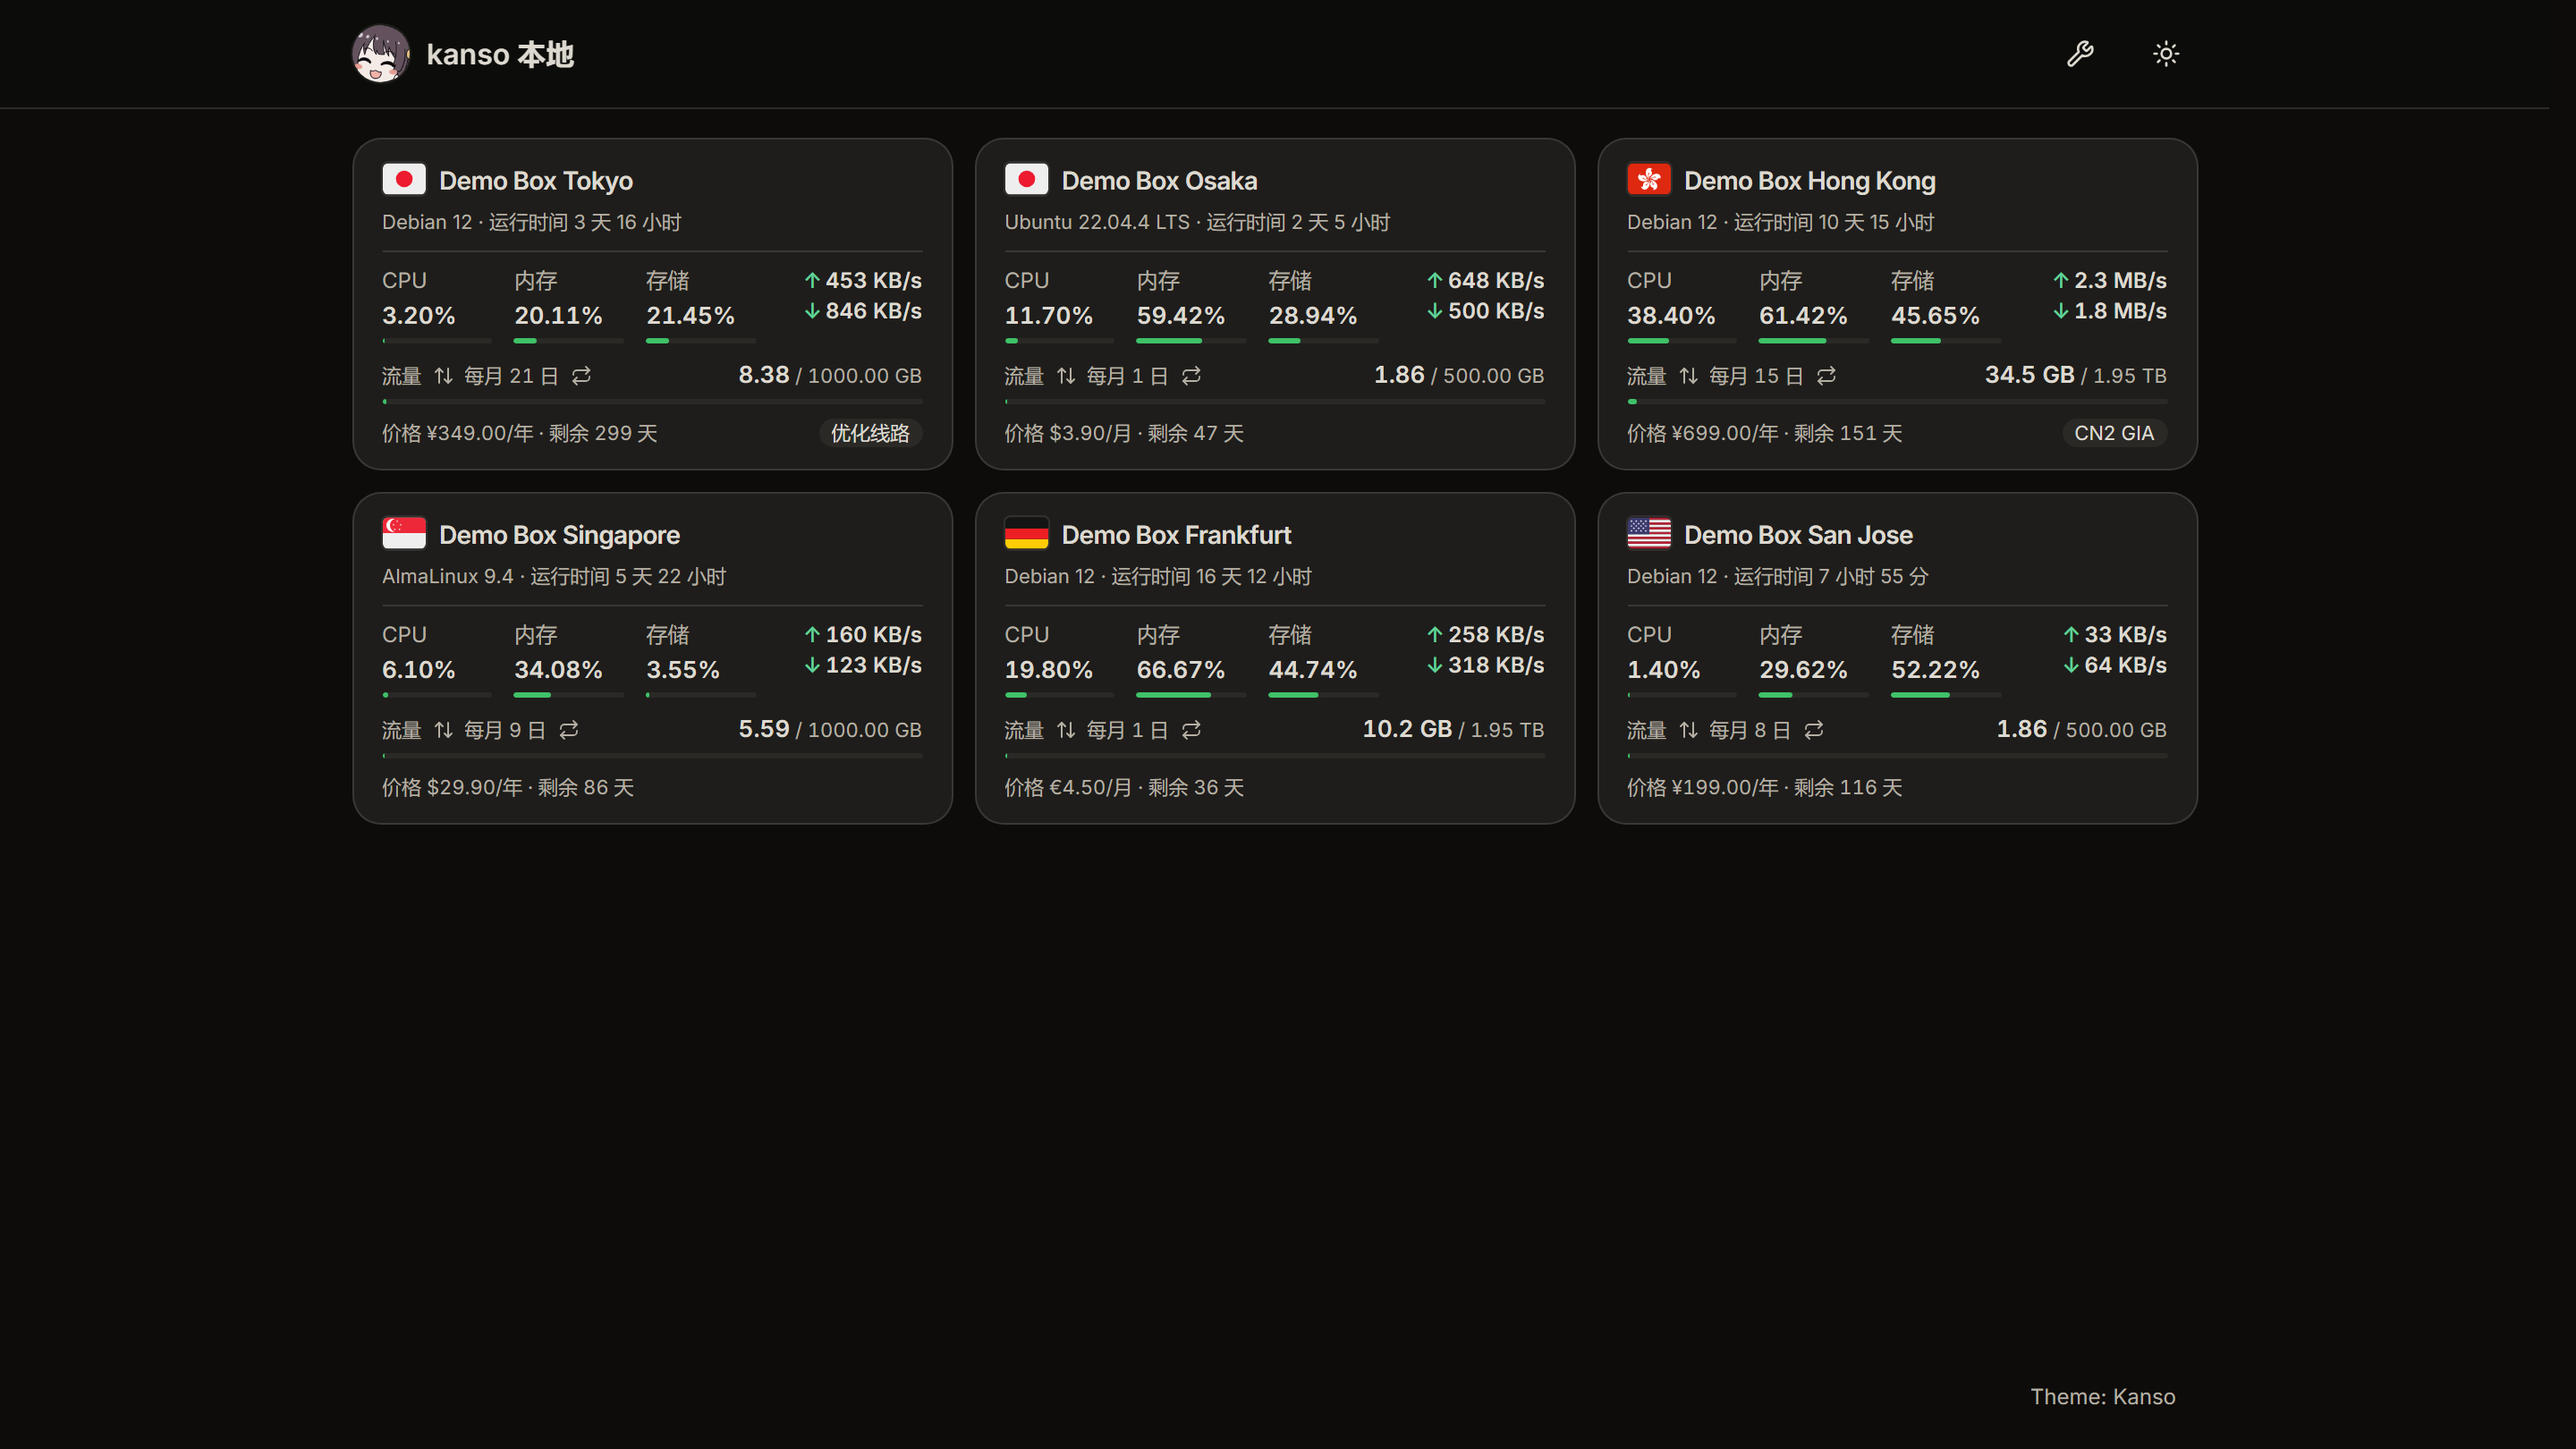
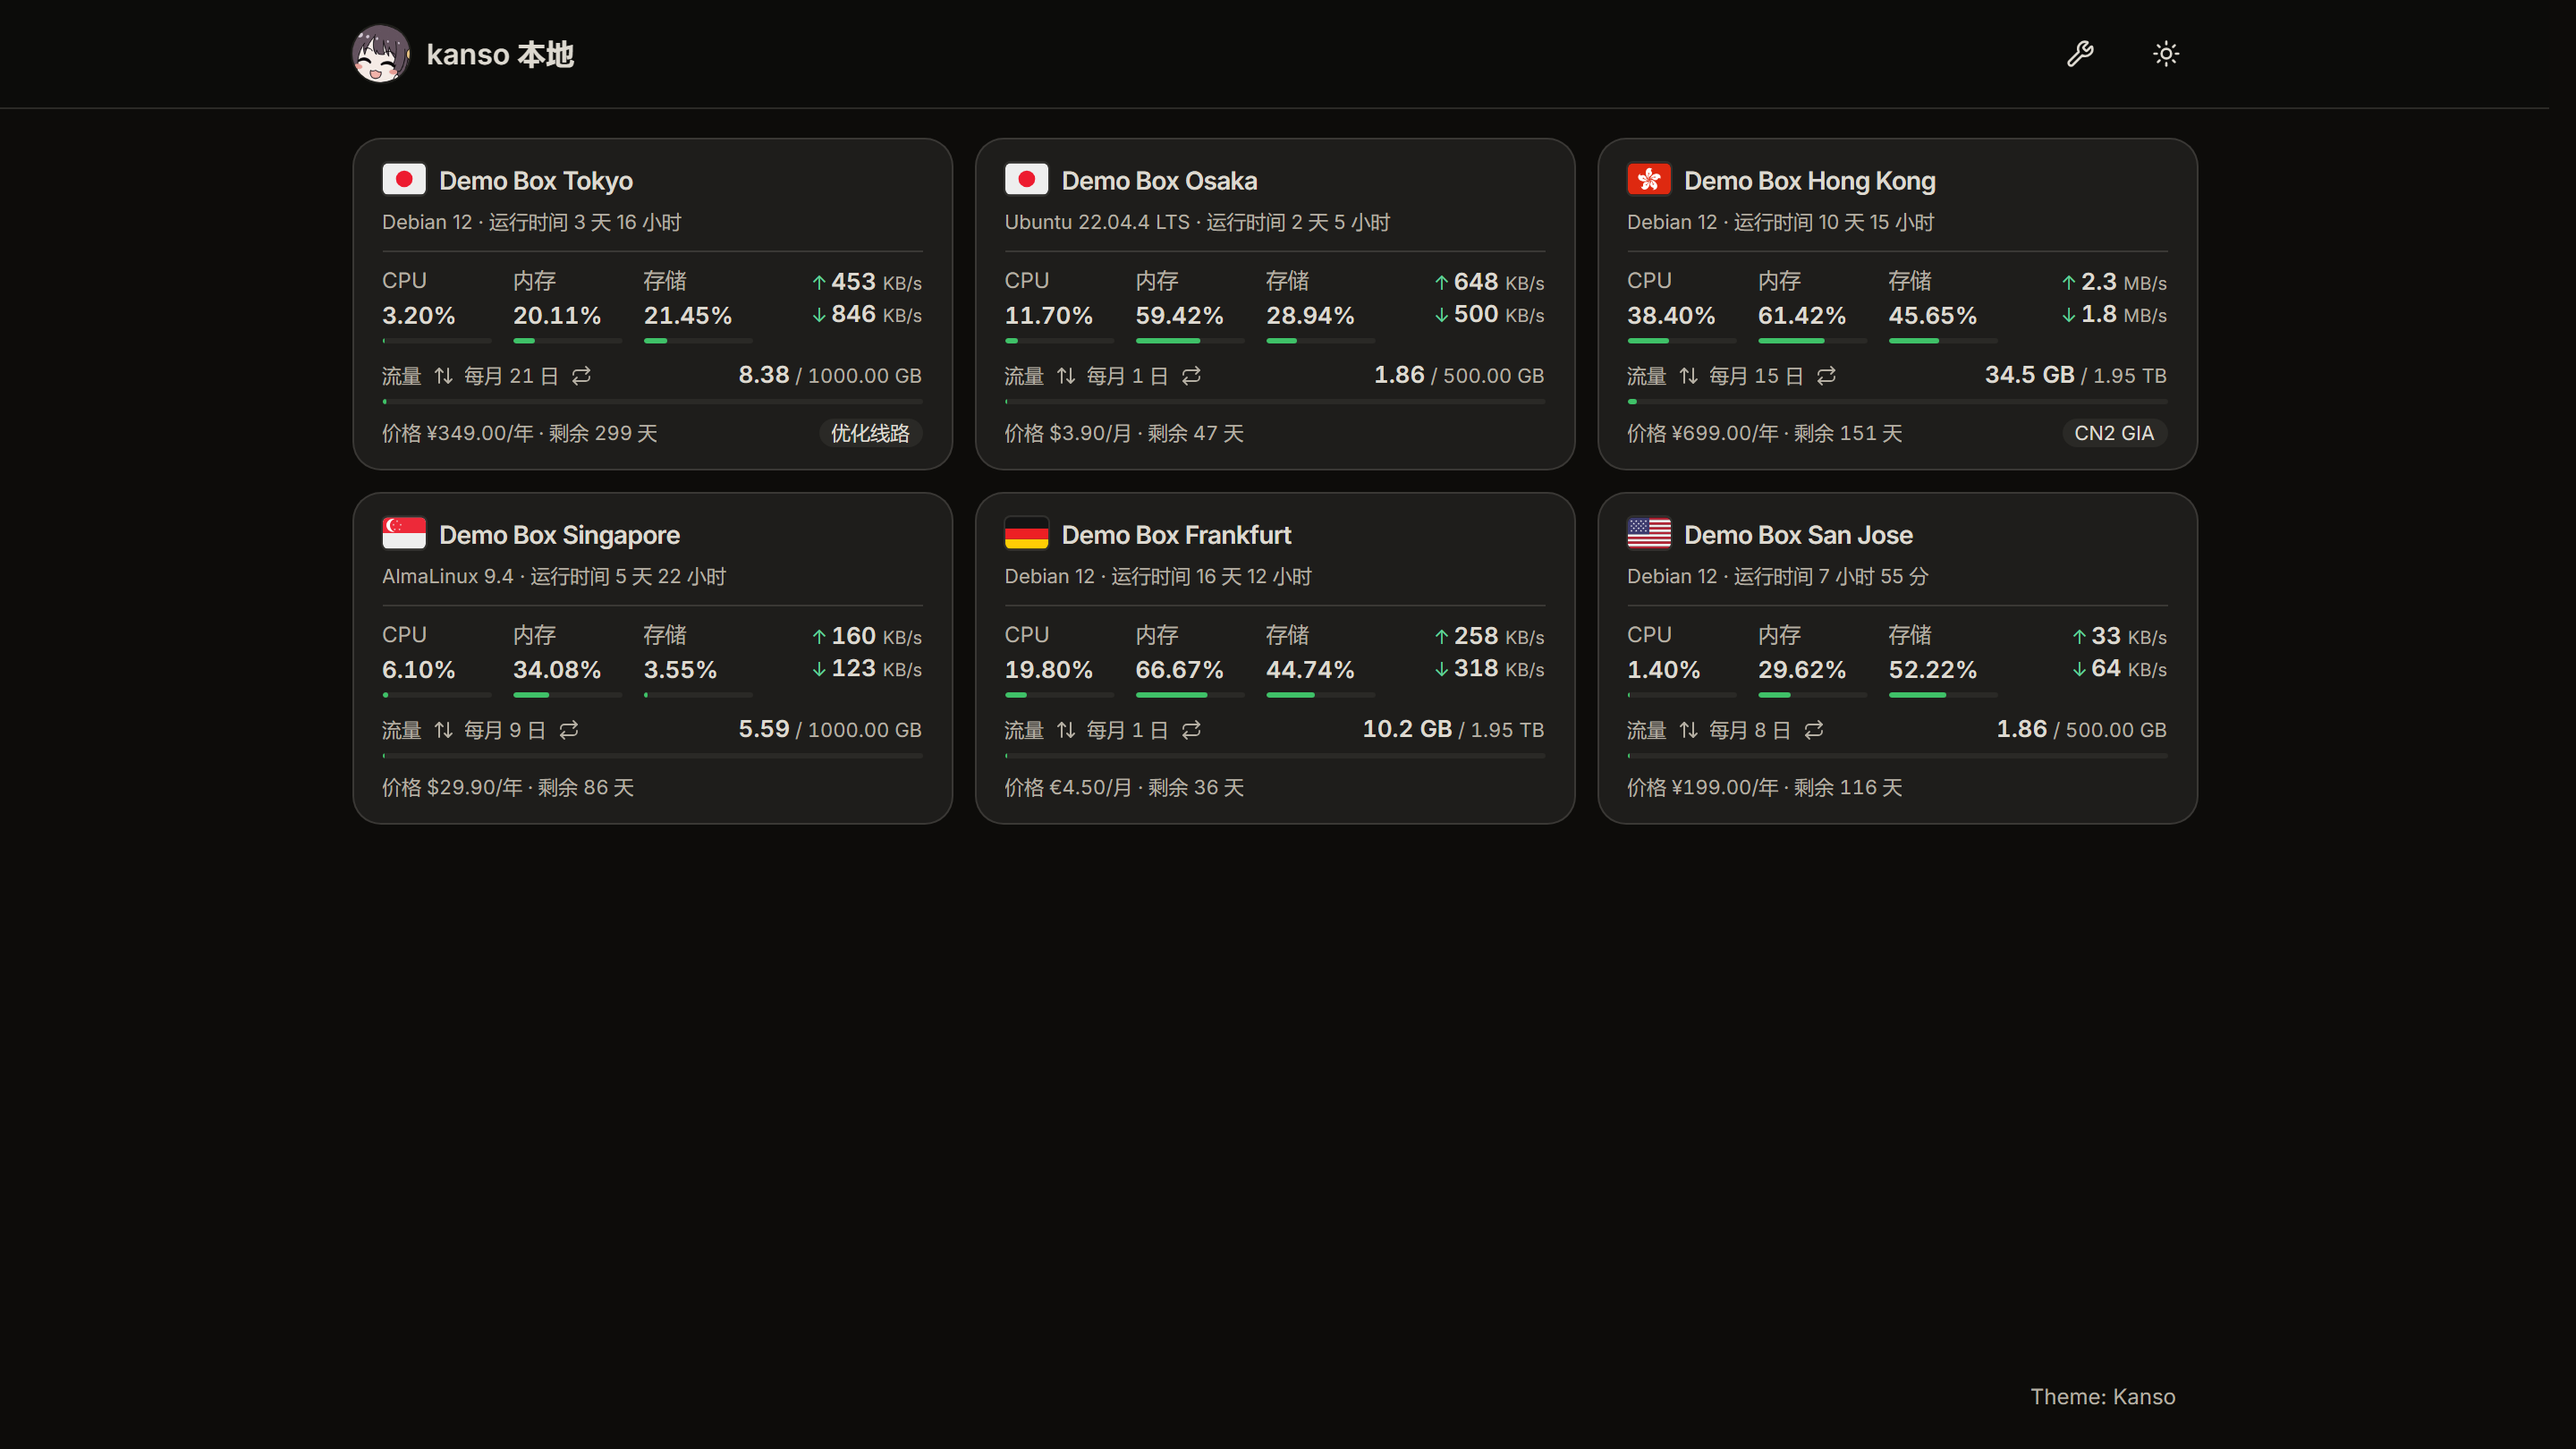
1.8.1：第四格速率的数值与单位分档（数值 13px、单位 10px 灰），第四列加宽到 1.35fr

diff --git a/src/components/NodeCard.tsx b/src/components/NodeCard.tsx
@@ -119,6 +119,16 @@ export function metaLine(node: Node): string {
 }
 
 /**
+ * 速率拆成「数值 / 单位」两截：第四格里数值走 13px（与左边读数同档）、单位压到 10px 灰。
+ * `rate()` 的输出固定是「数字 空格 单位」（含 `B/s`、`MB/s` 这类带斜杠的单位），按最后一个空格切。
+ */
+function rateParts(n: number): [string, string] {
+  const s = rate(n)
+  const i = s.lastIndexOf(" ")
+  return i < 0 ? [s, ""] : [s.slice(0, i), s.slice(i + 1)]
+}
+
+/**
  * 底注那行小字：`价格 ¥47.00/年 · 剩余 179 天`（有哪截写哪截；都没有就留空 ——
  * 那一行**照样占位**，卡片高度不能因为有没有这段字而变，见下面 ⑥ 的 ★）。
  *
@@ -256,6 +266,9 @@ export function NodeCard({ node, onOpen, onWarm }: {
   const note = noteText(node)
   // 「已用 / 额度」的整串（分色渲染用：前半深、后半灰）。
   const traffic = trafficFoot(node)
+  // 第四格的两行速率（数值 / 单位分开渲染，见 rateParts）。
+  const upRate = m ? rateParts(m.net_tx) : null
+  const downRate = m ? rateParts(m.net_rx) : null
   // 可访问名：名字 + 离线状态；空名字给一句兜底，别让链接没有名字。
   const label = `${node.name || "未命名节点"}${deployed(node) && !node.online ? "（已离线）" : ""}`
   return (
@@ -335,7 +348,7 @@ export function NodeCard({ node, onOpen, onWarm }: {
                 这个表名也不要 —— 只剩两行速率（`↑` / `↓` 用 --ok 区分方向）。没有表名，两行就
                 顶到别的格表名那一行上，第二行正好与它们的读数行齐平；累计总量在悬停说明里
                 （110px 的格子塞不下「累计 4.85 GB」）。 */}
-          <div data-metrics="" className="mt-2 grid grid-cols-[1fr_1fr_1fr_1.3fr] gap-x-3 border-t pt-2">
+          <div data-metrics="" className="mt-2 grid grid-cols-[1fr_1fr_1fr_1.35fr] gap-x-3 border-t pt-2">
             <Meter
               label="CPU"
               title={cores > 0 ? `${cores} 核` : undefined}
@@ -363,11 +376,16 @@ export function NodeCard({ node, onOpen, onWarm }: {
                 ? `上传 ${rate(m.net_tx)} · 累计 ${bytes(totalTx)}\n下载 ${rate(m.net_rx)} · 累计 ${bytes(totalRx)}`
                 : `累计 ${bytes(totalTx)} / ${bytes(totalRx)}`}
             >
-              <div className="tnum truncate text-right text-[12px] font-semibold leading-4">
-                <span className="mr-0.5 text-ok-ink">↑</span>{m ? rate(m.net_tx) : "—"}
+              {/* 数值 13px（与左边读数同档）+ 单位 10px 灰：这格没有表名、也没有条，靠这一档
+                  把「649 B/s」拉回读数区那一层，而不是读成两行备注；行高 16 / 18 分别对住
+                  左边「表名行 / 读数行」的基线。 */}
+              <div className="tnum truncate text-right text-[13px] font-semibold leading-4">
+                <span className="mr-0.5 text-[11px] font-normal text-ok-ink">↑</span>
+                {upRate ? (<>{upRate[0]}{" "}<span className="text-[10px] font-normal text-muted-foreground">{upRate[1]}</span></>) : "—"}
               </div>
-              <div className="tnum truncate text-right text-[12px] font-semibold leading-[18px]">
-                <span className="mr-0.5 text-ok-ink">↓</span>{m ? rate(m.net_rx) : "—"}
+              <div className="tnum truncate text-right text-[13px] font-semibold leading-[18px]">
+                <span className="mr-0.5 text-[11px] font-normal text-ok-ink">↓</span>
+                {downRate ? (<>{downRate[0]}{" "}<span className="text-[10px] font-normal text-muted-foreground">{downRate[1]}</span></>) : "—"}
               </div>
             </div>
           </div>

diff --git a/README.md b/README.md
@@ -14,7 +14,7 @@
 
 | 亮色 | 暗色 | 手机 |
 |:---:|:---:|:---:|
-| ![预览](preview-light.png?v=11) | ![暗色](preview-dark.png?v=11) | ![手机](preview-mobile.png?v=11) |
+| ![预览](preview-light.png?v=12) | ![暗色](preview-dark.png?v=12) | ![手机](preview-mobile.png?v=12) |
 
 
 ## 关于备注
